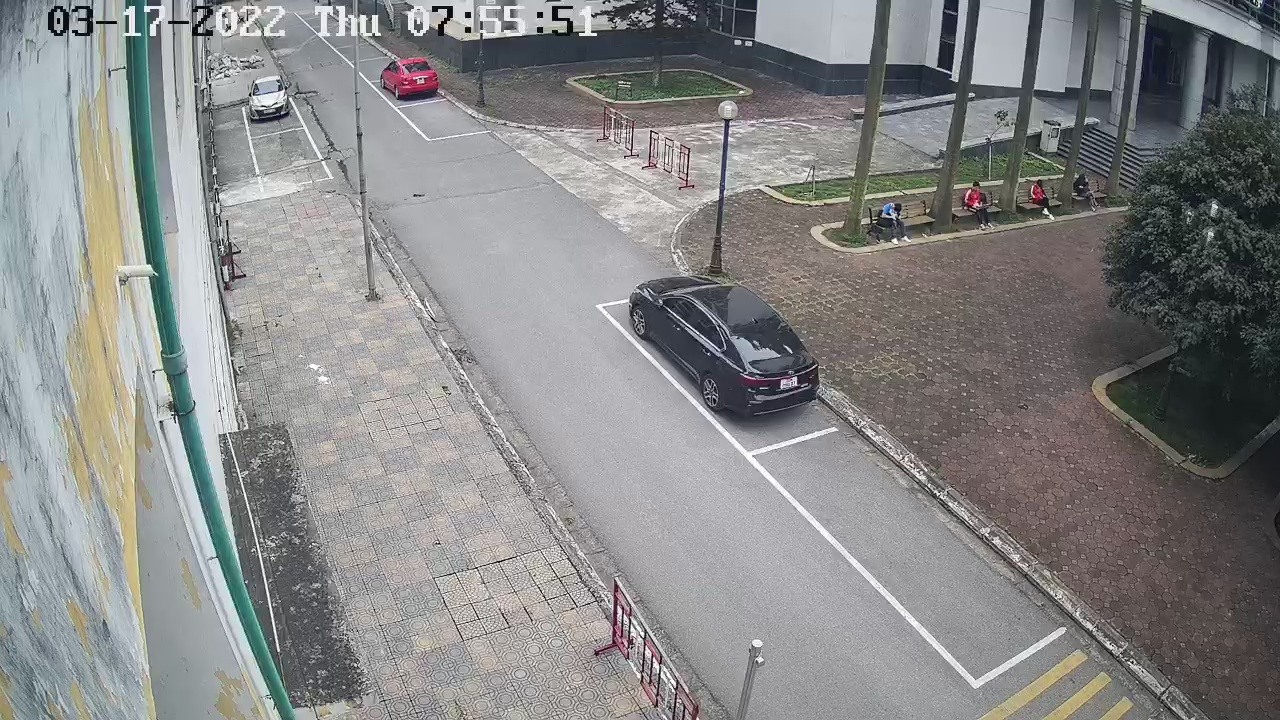
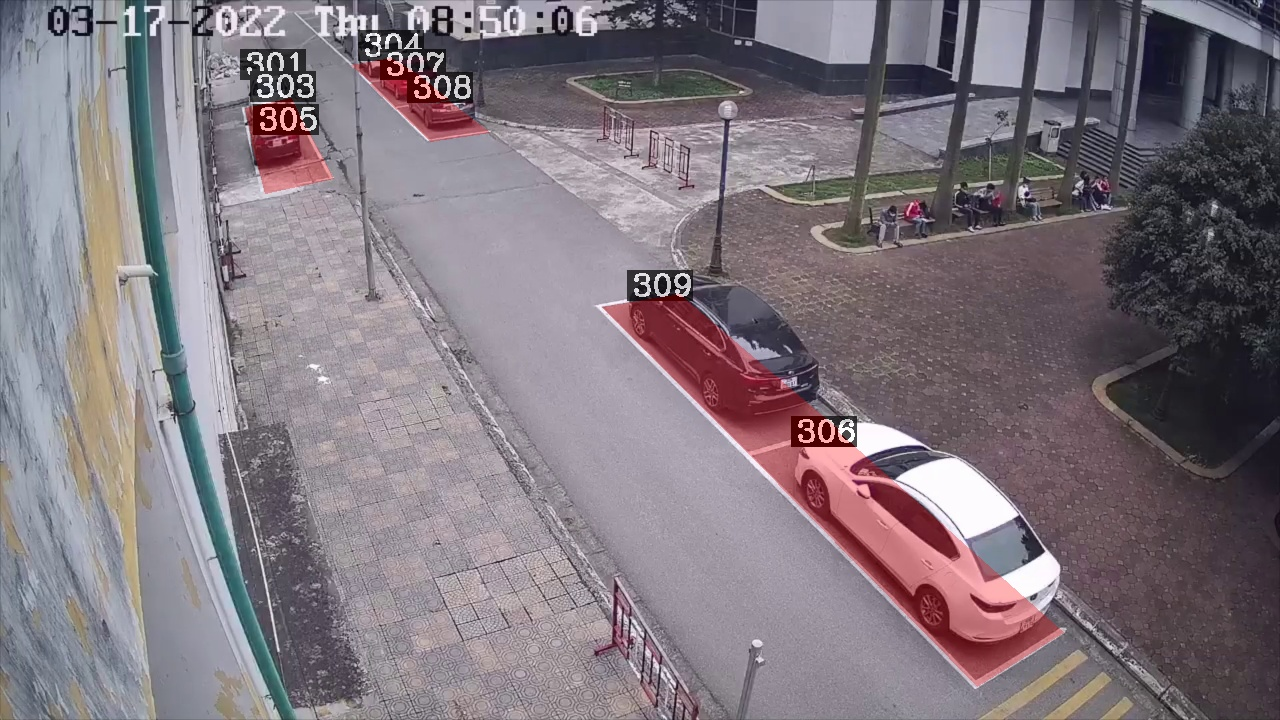
update show images d35

diff --git a/src/layouts/Dashboard/ImageView.jsx b/src/layouts/Dashboard/ImageView.jsx
@@ -1,17 +1,23 @@
 import React, { useEffect, useState } from 'react';
 import CarBannerImgD3 from '../../assets/img/D3.jpg';
+import CarBannerImgD3Ori from '../../assets/img/D3_original.jpg';
 import CarBannerImgD5 from '../../assets/img/D5.jpg';
+import CarBannerImgD5Ori from '../../assets/img/D5_original.jpg';
 
 function ImageView() {
   const [reloadImgD5, setReloadImgD5] = useState(CarBannerImgD5);
   const [reloadImgD3, setReloadImgD3] = useState(CarBannerImgD3);
+  const [reloadImgD3Ori, setReloadImgD3Ori] = useState(CarBannerImgD3Ori);
+  const [reloadImgD5Ori, setReloadImgD5Ori] = useState(CarBannerImgD5Ori);
 
   useEffect(() => {
     const interval = setInterval(() => {
       setReloadImgD3(CarBannerImgD3);
       setReloadImgD5(CarBannerImgD5);
-      console.log('This will run every 10 min!');
-    }, 1200000);
+      setReloadImgD3Ori(CarBannerImgD3Ori);
+      setReloadImgD5Ori(CarBannerImgD5Ori);
+      console.log('This will run every 30 seconds!');
+    }, 30000);
     return () => clearInterval(interval);
   }, []);
 
@@ -25,9 +31,10 @@ function ImageView() {
           <div className="container">
             <div className="row">
               <div className="card-body text-center p-2 col-6">
+                <h3>D3 Original</h3>
                 <img
                   role="presentation"
-                  src={reloadImgD3}
+                  src={reloadImgD3Ori}
                   alt=""
                   style={{
                     width: '100%',
@@ -35,6 +42,7 @@ function ImageView() {
                 />
               </div>
               <div className="card-body text-center p-2 col-6">
+                <h3>D3 Result</h3>
                 <img
                   role="presentation"
                   src={reloadImgD3}
@@ -47,9 +55,10 @@ function ImageView() {
             </div>
             <div className="row">
               <div className="card-body text-center p-2 col-6">
+                <h3>D5 Original</h3>
                 <img
                   role="presentation"
-                  src={reloadImgD5}
+                  src={reloadImgD5Ori}
                   alt=""
                   style={{
                     width: '100%',
@@ -57,6 +66,7 @@ function ImageView() {
                 />
               </div>
               <div className="card-body text-center p-2 col-6">
+                <h3>D5 Result</h3>
                 <img
                   role="presentation"
                   src={reloadImgD5}
